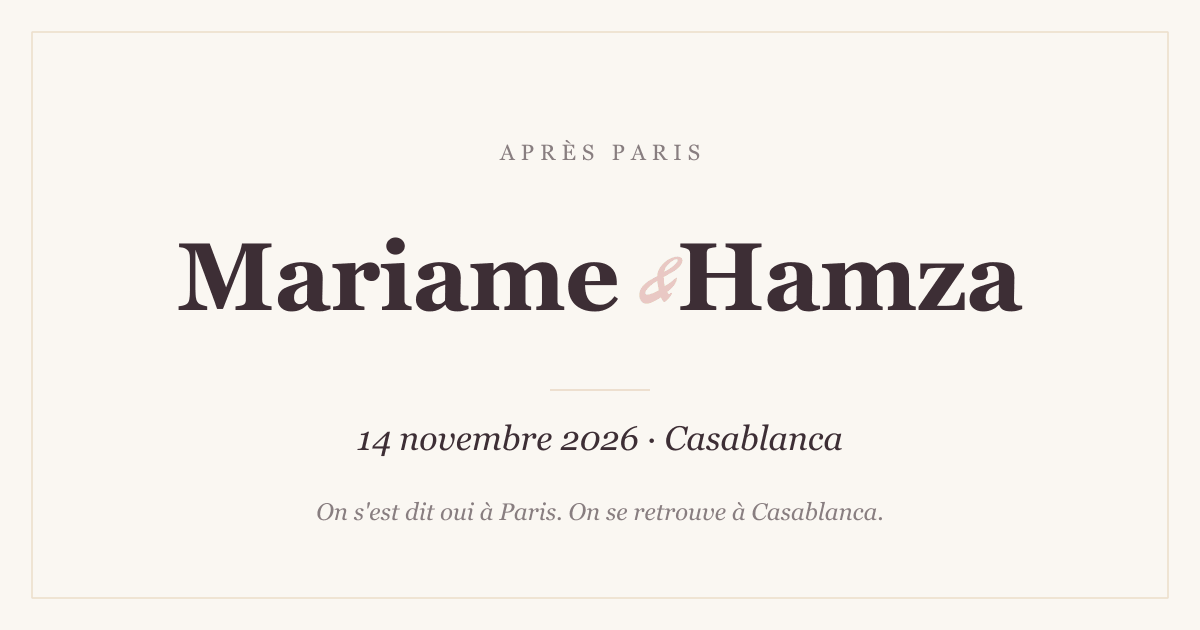
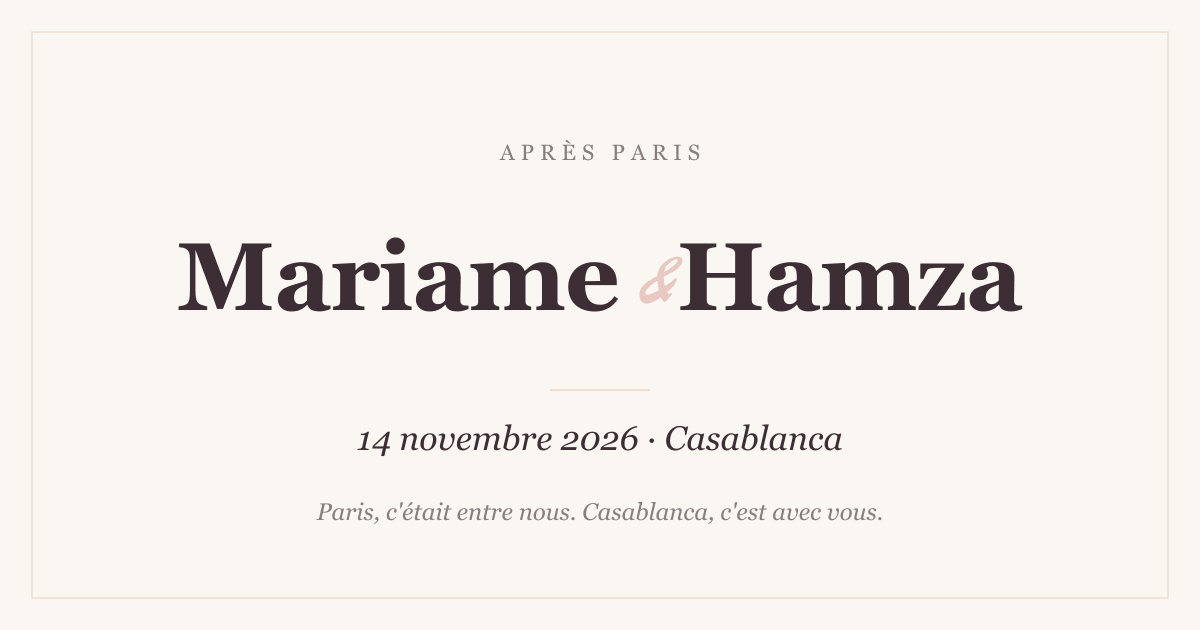
copy: 6 copy upgrades across hero, Le jour, RSVP, and Infos
Hero
- Subline: 'Paris, c'était entre nous. Casablanca, c'est avec vous.'
  (was 'On s'est dit oui à Paris. On se retrouve à Casablanca.')
  Tighter rhythm, clearer emotional pivot.

Le jour
- Intro: 'Un mariage marocain. Accueil à 17h avec Issawa, orchestre à
  19h, dîner à 23h, fin officielle à 2h. Officielle.'
  Packs the full schedule in one line, ends on the playful 'Officielle.'
  signalling 'officially 2h, but we'll stay later.'
- Pièce montée detail: 'Le gâteau. À notre façon.' (was 'Le cake, à
  notre façon.') — 'gâteau' > 'cake', two sentences for emphasis.

RSVP
- Message placeholder: 'Une blague, une promesse, une suggestion pour
  le DJ. On lira tout.' (was 'Un mot, une promesse, une blague…').
  Specific 'suggestion pour le DJ' + warm 'On lira tout.' closer.

Infos
- Tenue: 'Élégante et colorée. Caftan pour les femmes si l'envie vous
  prend, sinon robe de cocktail. Costume pour les hommes. Faites-vous
  plaisir, c'est un mariage marocain.' — separates F/H guidance clearly.
- Se déplacer: 'Taxis rouges (compteur, en espèces) ou Careem, l'Uber
  local. Les deux marchent. Pas besoin de louer une voiture.' —
  tighter, adds the 'no rental car needed' practical note.

Meta
- index.html og:description + meta description updated to match new
  hero subline.
- scripts/build-og-image.mjs subline updated + regenerated
  public/og-image.png (and its sibling svg) so the social card reads
  the new tagline.

Changed region(s): [[0.2467, 0.7841, 0.74, 0.8444]]

diff --git a/index.html b/index.html
@@ -6,7 +6,7 @@
     <title>Mariame & Hamza · 14 novembre 2026</title>
     <meta
       name="description"
-      content="On s'est dit oui à Paris. On se retrouve à Casablanca. 14 novembre 2026."
+      content="Paris, c'était entre nous. Casablanca, c'est avec vous. 14 novembre 2026."
     />
 
     <!-- Favicon: SVG monogram (modern browsers) + PNG fallback (older). -->
@@ -20,7 +20,7 @@
     <meta property="og:title" content="Mariame & Hamza · 14 novembre 2026" />
     <meta
       property="og:description"
-      content="On s'est dit oui à Paris. On se retrouve à Casablanca."
+      content="Paris, c'était entre nous. Casablanca, c'est avec vous."
     />
     <meta property="og:image" content="/og-image.png" />
     <meta property="og:image:width" content="1200" />
@@ -33,7 +33,7 @@
     <meta name="twitter:title" content="Mariame & Hamza · 14 novembre 2026" />
     <meta
       name="twitter:description"
-      content="On s'est dit oui à Paris. On se retrouve à Casablanca."
+      content="Paris, c'était entre nous. Casablanca, c'est avec vous."
     />
     <meta name="twitter:image" content="/og-image.png" />
 
